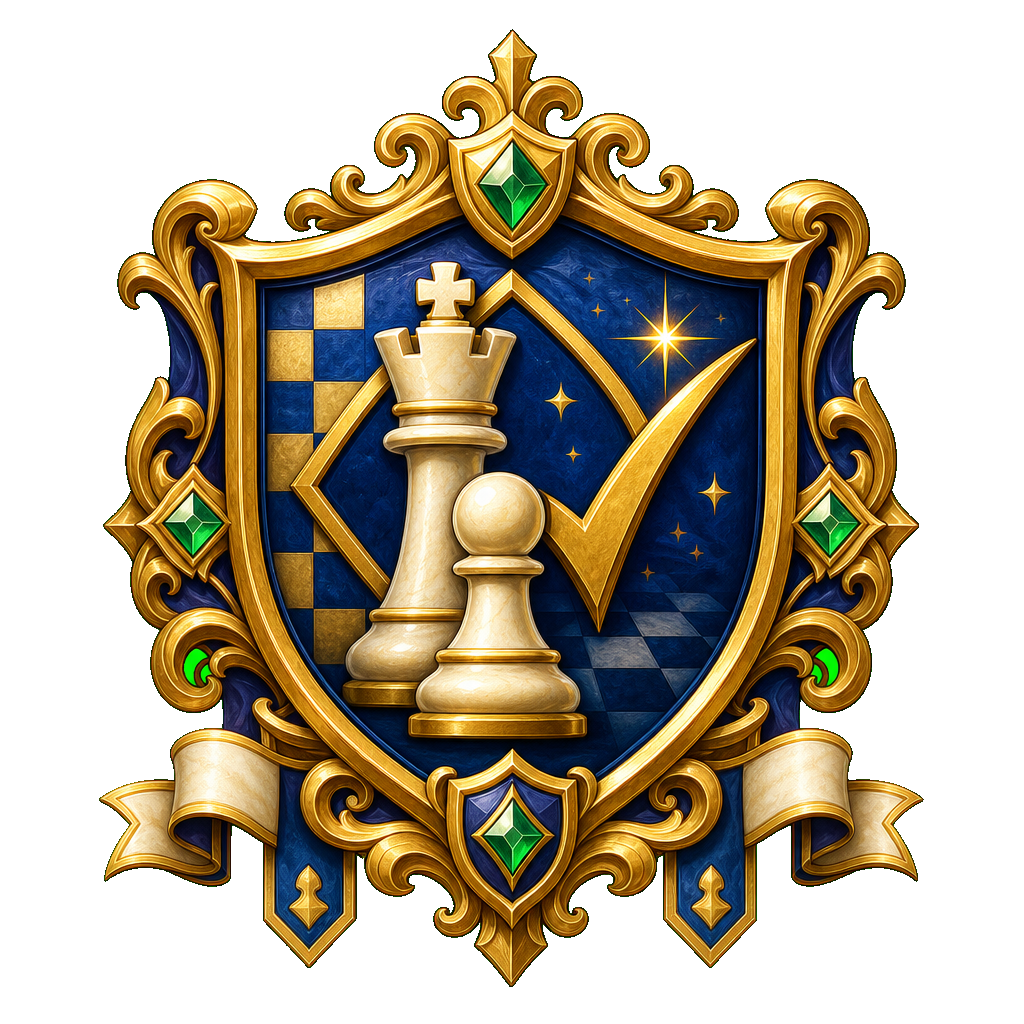
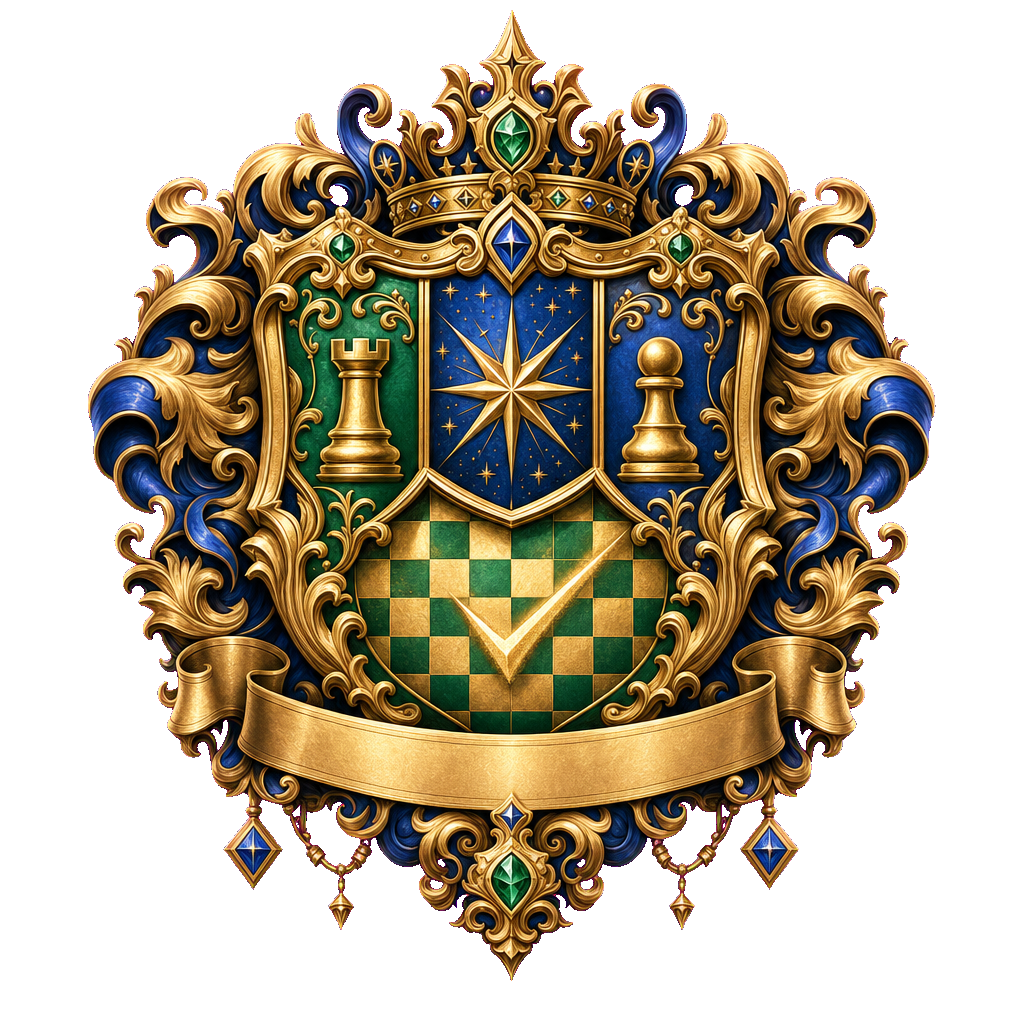
Make Any Game Counts badge more ornate

diff --git a/docs/SQC_ANY_GAME_COUNTS_ORNATE_COFFEEHOUSE_FIX_2026-06-10.md b/docs/SQC_ANY_GAME_COUNTS_ORNATE_COFFEEHOUSE_FIX_2026-06-10.md
@@ -1,0 +1,36 @@
+# SQC Any Game Counts Ornate Coffee House-Level Fix — 2026-06-10
+
+## Trigger
+Andreas rejected the previous `Any Game Counts` badge because it was still not detailed/decorated enough compared with the Coffee House / `Knights Before Coffee` coat of arms.
+
+## Target
+Use `public/badges/v6/knights-before-coffee-badge.png` as the detail/decoration quality bar:
+- dense baroque gold filigree
+- layered scrollwork and mantling
+- jewels/stars/pendant details
+- rich blue/gold heraldic depth
+- no text/letters/numbers
+- transparent outside background
+
+## Fix
+Replaced both mirrored assets:
+- `public/badges/v6/proof-loop-test-badge.png`
+- `apps/mobile/assets/badges/v6/proof-loop-test-badge.png`
+
+The new asset uses a much denser ornate heraldic frame, shield subdivisions, chess pieces, a completed-game/check motif, jewels, ribbons, and layered decoration to better match the Coffee House coat quality.
+
+## QC
+- Visual comparison was run against the user-provided screenshot and `knights-before-coffee-badge.png`.
+- Initial chroma mask had magenta artifacts and was rejected.
+- Final cleanup removed magenta artifacts while preserving internal gold/blue ornament detail.
+- Final strict QC: ship — more detailed/decorated, no visible magenta fringing, no damaged internal details, no readable text/letters/numbers.
+
+## Transparency proof
+Both web and mobile assets are `1024x1024 RGBA` PNGs with alpha extrema `(0, 255)`, sampled outside corners `[0, 0, 0, 0, 0, 0]`, and `49.27%` fully transparent pixels.
+
+## Verification
+- `pnpm build` passed after a transient stale/parallel Next build warning on first attempt.
+- `pnpm quest:release-gate` passed.
+
+## Deployment
+Pending at time of doc creation.